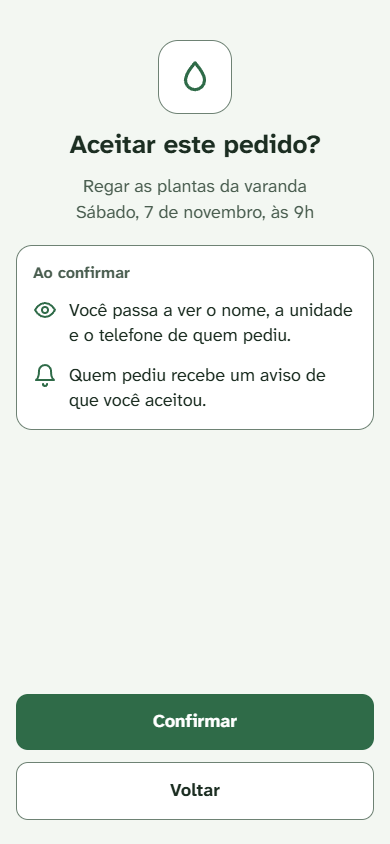
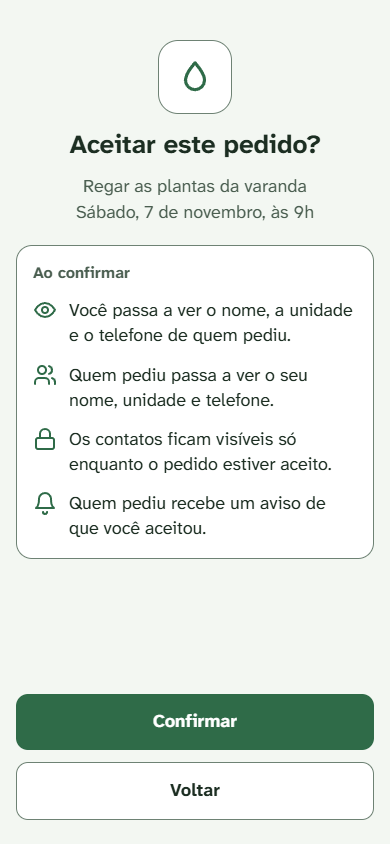
docs(casos-de-uso): adiciona DC-09 a DC-12 sobre contato e conclusão do pedido (#41)

diff --git a/docs/casos-de-uso/ciclo-da-solicitacao.md b/docs/casos-de-uso/ciclo-da-solicitacao.md
@@ -80,6 +80,10 @@ Leitura: a seta com triângulo (Solicitante → Morador e Apoiador → Morador) 
 | DC-06 | O **admin da comunidade também cria e aceita solicitações**, como qualquer morador, desde que o vínculo dele esteja ativo. | O admin também mora na comunidade. O papel fica no Vínculo (MD-02), e proibir exigiria uma regra a mais. | O admin só administra e não pede nem oferece ajuda. |
 | DC-07 | Existe uma sétima categoria, **Outra ajuda**, para pedidos que não cabem nas outras seis. Quem pede explica o pedido na descrição. O aviso segue a DC-01: é avisado quem marcou no perfil que oferece Outra ajuda e está disponível no horário (ADR-34). | Sem ela, o pedido diferente não tem lugar, e a pessoa desiste ou escolhe uma categoria errada, que avisa as pessoas erradas. | (a) Manter seis categorias: a pessoa fica sem saída. (b) Categoria em texto livre: não casa com o perfil, e ninguém seria avisado. (c) O admin cria categorias: telas e regras que nenhum RF prevê. |
 | DC-08 | O **nome** de quem pediu segue a regra da unidade e do telefone: só o apoiador vê, e só depois do aceite. Nunca aparece na lista, no aviso nem no detalhe antes do aceite (ADR-34). | Um pedido como "vou viajar no fim de semana", junto com o nome, mostra a toda a comunidade quem vai deixar o apartamento vazio. Reforça a P-04 sem mudá-la. | (a) Nome sempre visível: expõe quem pede, como no exemplo da viagem. (b) Só o primeiro nome na lista: ainda identifica a pessoa numa comunidade pequena. |
+| DC-09 | Depois do aceite, quem pediu vê o **nome, a unidade e o telefone do apoiador**. Só o solicitante daquela solicitação vê esses dados, e nunca em listagens (RC-12). | Combinar a ajuda (entregar, buscar uma chave, avisar de um atraso) exige contato nos dois sentidos. Sem isso, só o apoiador consegue ligar. Quem aceita é avisado antes de confirmar (RF-US-01). | (a) Só avisar que alguém aceitou, sem dados: o solicitante fica sem saída se o apoiador sumir. (b) Só o nome: não dá para combinar a ajuda. |
+| DC-10 | O contato dos dois lados (nome, unidade e telefone) só é mostrado **enquanto a solicitação está Aceita**. Quando ela volta a Aberta (desistência), é Cancelada ou é Concluída, o sistema deixa de mostrar o contato aos dois. O histórico mostra título, categoria, data e status, sem contato. | Uma regra só, igual para os dois lados. Combina com o UC-03, passo 6, e com dados mínimos (RNF04). É mais rígida que a P-04 sem mudá-la. | (a) Contato visível para sempre: dado pessoal guardado sem uso. (b) Contato some na desistência e no cancelamento, mas fica depois de Concluída: duas regras para o mesmo dado. |
+| DC-11 | Pelo webapp, o solicitante pode concluir **a qualquer momento enquanto a solicitação está Aceita**, também antes do horário marcado. Pelo bot, só depois do horário, pela pergunta da DC-04. | A ajuda pode acontecer mais cedo. O UC-05 já dizia "depois da ajuda", não "depois do horário". Evita uma checagem de horário a mais. | Só depois do horário: trava quem já foi ajudado. |
+| DC-12 | No webapp, concluir **pede confirmação**, como cancelar. No bot, não: a pergunta "A ajuda foi feita?" (DC-04) já é a confirmação. | Concluída é final, como Cancelada. Um toque por engano encerraria o pedido e avisaria o apoiador. | (a) Confirmação também no bot: repete a mesma pergunta. (b) Sem confirmação: o engano não tem volta. |
 
 ## 5. Rótulos de exibição
 
@@ -147,16 +151,16 @@ Rótulos são textos que o webapp mostra conforme o status e a data. **Não são
 1. O morador abre a lista de solicitações abertas da comunidade. A lista não mostra nome, unidade nem telefone de ninguém (RC-10, DC-08).
 2. Ele escolhe uma solicitação e vê os detalhes, ainda sem nome, unidade nem telefone de quem pediu (DC-08).
 3. Ele toca em **Aceitar**.
-4. O sistema pede uma confirmação e avisa que, ao confirmar, ele passa a ver o nome, a unidade e o telefone do solicitante (RF-US-01).
+4. O sistema pede uma confirmação e avisa que, ao confirmar, ele passa a ver o nome, a unidade e o telefone do solicitante, e o solicitante passa a ver os dele, enquanto a solicitação estiver Aceita (RF-US-01, DC-09, DC-10).
 5. Ele confirma.
 6. O sistema muda a solicitação para **Aceita**, com esse morador como apoiador, e registra uma Transição da solicitação (de Aberta para Aceita, autor, origem webapp, data).
 7. O sistema avisa o solicitante.
-8. O sistema passa a mostrar ao apoiador o nome, a unidade e o telefone do solicitante (P-04, DC-08).
+8. O sistema passa a mostrar ao apoiador o nome, a unidade e o telefone do solicitante (P-04, DC-08), e ao solicitante os do apoiador (DC-09), enquanto a solicitação estiver Aceita (DC-10).
 
 **Fluxos alternativos:**
 - **A1 — Pelo bot.** O morador recebeu o aviso do UC-01 (passo 6) e toca em **Aceitar** na mensagem. O bot pede a mesma confirmação na própria mensagem e ele confirma (passos 4 e 5). O sistema executa os passos 6 a 8, com origem bot, e responde no chat com o nome, a unidade e o telefone do solicitante.
 - **A2 — Filtro por categoria.** No passo 1, o morador filtra a lista por categoria (RF06).
-- **A3 — Desiste na confirmação.** No passo 5, o morador não confirma: no webapp, toca em Voltar ou sai da tela; no bot, toca em Voltar ou não toca em Confirmar. Nada muda, e o nome, a unidade e o telefone do solicitante continuam ocultos (RF-US-02).
+- **A3 — Desiste na confirmação.** No passo 5, o morador não confirma: no webapp, toca em Voltar ou sai da tela; no bot, toca em Voltar ou não toca em Confirmar. Nada muda: o nome, a unidade e o telefone do solicitante continuam ocultos, e os do morador não vão para o solicitante (RF-US-02).
 
 **Exceções:**
 - **E1 — Outro morador aceitou antes**, mesmo que no mesmo instante e por outro canal (webapp ou bot). Só a primeira aceitação vale. O sistema recusa a segunda, informa que a solicitação já foi aceita, e nada muda (P-01, RF09).
@@ -168,11 +172,11 @@ Rótulos são textos que o webapp mostra conforme o status e a data. **Não são
 - As exceções E1 a E5 e, no fluxo A1, as exceções EB-1 e EB-2 são conferidas quando o morador confirma (passo 5), porque a situação pode mudar entre o toque em Aceitar e a confirmação.
 
 **Pós-condições:**
-- Sucesso: a solicitação está Aceita, tem exatamente um apoiador, a Transição foi registrada, o solicitante foi avisado e só o apoiador vê o nome, a unidade e o telefone do solicitante.
+- Sucesso: a solicitação está Aceita, tem exatamente um apoiador, a Transição foi registrada, o solicitante foi avisado, só o apoiador vê o nome, a unidade e o telefone do solicitante, e só o solicitante vê os do apoiador (DC-09).
 - Exceção: nada mudou.
-- Desistência na confirmação (A3): nada mudou, e o nome, a unidade e o telefone do solicitante não foram revelados.
+- Desistência na confirmação (A3): nada mudou, e o nome, a unidade e o telefone de nenhum dos dois foram revelados.
 
-**Rastreabilidade (acréscimo do projeto):** RF06, RF08, RF09, RNF01 (RNF-US-02; RF-US-01 e RF-US-02 em `docs/specs/usabilidade.md`), RNF05 · RC-01, RC-02, RC-09, RC-10 · P-01, P-02, P-04, P-05, P-07 · DC-03, DC-06, DC-08.
+**Rastreabilidade (acréscimo do projeto):** RF06, RF08, RF09, RNF01 (RNF-US-02; RF-US-01 e RF-US-02 em `docs/specs/usabilidade.md`), RNF05 · RC-01, RC-02, RC-09, RC-10, RC-12 · P-01, P-02, P-04, P-05, P-07 · DC-03, DC-06, DC-08, DC-09, DC-10.
 
 ---
 
@@ -192,7 +196,7 @@ Rótulos são textos que o webapp mostra conforme o status e a data. **Não são
 3. O sistema volta a solicitação para **Aberta**, sem apoiador (RC-03), e registra uma Transição da solicitação (de Aceita para Aberta, autor, origem webapp, data).
 4. O sistema avisa o solicitante.
 5. O sistema avisa de novo os moradores escolhidos pela DC-01, sem avisar quem desistiu (DC-02).
-6. O morador que desistiu deixa de ver o nome, a unidade e o telefone do solicitante (P-04, DC-08).
+6. O morador que desistiu deixa de ver o nome, a unidade e o telefone do solicitante (P-04, DC-08), e o solicitante deixa de ver os dele (DC-10).
 
 **Fluxos alternativos:**
 - **A1 — Pelo bot.** O apoiador toca em **Desistir** numa mensagem do bot. O sistema executa os passos 3 a 6, com origem bot.
@@ -204,10 +208,10 @@ Rótulos são textos que o webapp mostra conforme o status e a data. **Não são
 - **EB-1 e EB-2** (seção 1), no fluxo A1.
 
 **Pós-condições:**
-- Sucesso: a solicitação está Aberta, sem apoiador; a Transição foi registrada; o solicitante foi avisado; o ex-apoiador não vê mais o nome, a unidade e o telefone.
+- Sucesso: a solicitação está Aberta, sem apoiador; a Transição foi registrada; o solicitante foi avisado; o ex-apoiador não vê mais o nome, a unidade e o telefone do solicitante, e o solicitante não vê mais os do ex-apoiador (DC-10).
 - Exceção: nada mudou.
 
-**Rastreabilidade (acréscimo do projeto):** RF10 · RC-03, RC-09, RC-10 · P-02, P-04, P-05 · DC-02, DC-03, DC-05, DC-08.
+**Rastreabilidade (acréscimo do projeto):** RF10 · RC-03, RC-09, RC-10, RC-12 · P-02, P-04, P-05 · DC-02, DC-03, DC-05, DC-08, DC-10.
 
 ---
 
@@ -240,10 +244,10 @@ Rótulos são textos que o webapp mostra conforme o status e a data. **Não são
 - **EB-1 e EB-2** (seção 1), nos fluxos A1 e A2.
 
 **Pós-condições:**
-- Sucesso: a solicitação está Cancelada e não muda mais; a Transição foi registrada; o apoiador, se havia, foi avisado.
+- Sucesso: a solicitação está Cancelada e não muda mais; a Transição foi registrada; o apoiador, se havia, foi avisado; nenhum dos dois vê mais o contato do outro (DC-10).
 - Exceção: nada mudou.
 
-**Rastreabilidade (acréscimo do projeto):** RF10 · RC-09 · P-02, P-05 · DC-03, DC-05.
+**Rastreabilidade (acréscimo do projeto):** RF10 · RC-09, RC-10, RC-12 · P-02, P-04, P-05 · DC-03, DC-05, DC-10.
 
 ---
 
@@ -260,14 +264,14 @@ Rótulos são textos que o webapp mostra conforme o status e a data. **Não são
 
 **Fluxo principal (webapp):**
 1. Depois da ajuda, o solicitante abre a solicitação.
-2. Ele toca em **Confirmar que foi feita**.
+2. Ele toca em **Concluir** e confirma (DC-12). Isso vale a qualquer momento enquanto a solicitação está Aceita, também antes do horário (DC-11).
 3. O sistema muda a solicitação para **Concluída**, que é um status final, e registra uma Transição da solicitação (de Aceita para Concluída, autor, origem webapp, data).
 4. O sistema avisa o apoiador.
 
 Não existe avaliação entre moradores depois da conclusão (D-01, RC-11).
 
 **Fluxos alternativos:**
-- **A1 — Pergunta do bot (DC-04).** O horário passou e a solicitação continua Aceita. O bot pergunta ao solicitante uma vez, por exemplo: "A ajuda foi feita?" ⚠, com o botão **Sim, foi feita**. Se ele tocar, o sistema executa os passos 3 e 4, com origem bot.
+- **A1 — Pergunta do bot (DC-04).** O horário passou e a solicitação continua Aceita. O bot pergunta ao solicitante uma vez, por exemplo: "A ajuda foi feita?" ⚠, com o botão **Sim, foi feita**. Se ele tocar, o sistema executa os passos 3 e 4, com origem bot. A pergunta já é a confirmação: o bot não pede outra (DC-12).
 - **A2 — Rótulos no webapp (DC-04).** Depois do horário, o solicitante vê "Aguardando sua confirmação" e o apoiador vê "Aguardando confirmação do solicitante". O solicitante pode concluir pelo fluxo principal.
 - **A3 — O solicitante não responde.** A solicitação continua Aceita. O bot não pergunta de novo, e o sistema não conclui sozinho (DC-04).
 
@@ -275,13 +279,15 @@ Não existe avaliação entre moradores depois da conclusão (D-01, RC-11).
 - **E1 — A solicitação está Aberta** (ninguém aceitou). Não há ajuda a confirmar. O sistema recusa (P-02).
 - **E2 — A solicitação já terminou** (Concluída ou Cancelada), por exemplo quando o botão do bot é tocado depois de concluir pelo webapp. O sistema recusa e informa o status final (P-02).
 - **E3 — O morador não é o solicitante** (por exemplo, o apoiador tenta concluir). O sistema recusa (RF11).
+- **E4 — O apoiador mudou** desde que o solicitante abriu a solicitação ou recebeu a pergunta do bot (o apoiador desistiu e outro morador aceitou). O sistema recusa, informa que o apoiador mudou, e nada muda.
 - **EB-1 e EB-2** (seção 1), no fluxo A1.
+- No webapp, as exceções E1 a E4 são conferidas quando o solicitante confirma (passo 2), porque a situação pode mudar entre os dois toques (por exemplo, o apoiador desiste e outro morador aceita).
 
 **Pós-condições:**
-- Sucesso: a solicitação está Concluída e não muda mais; a Transição foi registrada; o apoiador foi avisado.
+- Sucesso: a solicitação está Concluída e não muda mais; a Transição foi registrada; o apoiador foi avisado; nenhum dos dois vê mais o contato do outro (DC-10).
 - Exceção: nada mudou.
 
-**Rastreabilidade (acréscimo do projeto):** RF11, RF12 · RC-09, RC-11 · P-02, P-05 · D-01 · DC-04.
+**Rastreabilidade (acréscimo do projeto):** RF11, RF12 · RC-09, RC-10, RC-11, RC-12 · P-02, P-04, P-05 · D-01 · DC-04, DC-10, DC-11, DC-12.
 
 ## 7. Pontos em aberto ⚠
 
@@ -291,8 +297,7 @@ Não mudam os fluxos acima, mas precisam de resposta na spec ou nos mockups.
 - Como o sistema sabe que já perguntou (DC-04) ou já avisou (DC-05), para fazer isso uma vez só. Talvez exija um dado novo na Solicitação, o que mexeria no modelo.
 - Quem não usa Telegram: a pergunta da DC-04 e o aviso da DC-05 também vão por e-mail, com um link para o webapp? (RF24)
 - Vínculo suspenso ou removido depois de criar ou aceitar: a pessoa ainda pode cancelar, desistir ou concluir? (efeitos da suspensão, RF17)
-- Depois que a solicitação é Cancelada ou Concluída, o ex-apoiador continua vendo o nome, a unidade e o telefone do solicitante? (P-04, DC-08)
-- O que o solicitante vê do apoiador quando é avisado da aceitação (nome? contato?).
-- O solicitante pode concluir antes do horário marcado, se a ajuda já aconteceu?
+- Mensagens do bot já entregues continuam no histórico do Telegram depois que a solicitação termina: a resposta do aceite ao apoiador, com o nome, a unidade e o telefone do solicitante (UC-02 A1), e o aviso do aceite ao solicitante (UC-02 passo 7), se ele levar o contato do apoiador. A DC-10 vale para o que o sistema mostra. Decidir no catálogo de mensagens do bot se o contato vai no chat e se o bot apaga a mensagem ⚠ (conferir na documentação do Telegram o que um bot pode apagar).
+- Na spec: concluir precisa ser condicionado ao status e ao apoiador ao mesmo tempo (UC-05 E4), do mesmo jeito que o aceite é condicionado ao status (P-01).
 - Texto da resposta do bot na EB-2.
 - Na spec: onde fica a recusa por horário vencido. Proposta: como condição do caso de uso Aceitar, fora da tabela de transições da P-02.

diff --git a/docs/specs/usabilidade.md b/docs/specs/usabilidade.md
@@ -1,7 +1,7 @@
 # Spec: usabilidade e acessibilidade (RNF01 e RNF02)
 
 - Origem: decomposição do RNF01 ("criar/aceitar em até 3 toques") e do RNF02 ("leitor de tela, aumento de fonte, contraste") em critérios verificáveis, antes dos mockups (aula 3, A3 s.17 e s.25). Issue #32.
-- Decisões relacionadas: D1 a D7 da Issue #32. Casos de uso: UC-01 e UC-02 (`docs/casos-de-uso/ciclo-da-solicitacao.md`). Constituição: P-01, P-02, P-04 e P-05.
+- Decisões relacionadas: D1 a D7 da Issue #32. Casos de uso: UC-01 e UC-02 (`docs/casos-de-uso/ciclo-da-solicitacao.md`), com DC-09 e DC-10 (Issue #40). Constituição: P-01, P-02, P-04 e P-05.
 - Escopo: todas as telas do webapp e todas as mensagens do bot.
 - Fora do escopo: conformidade completa com a WCAG 2.2 nível AA; a acessibilidade do próprio aplicativo do Telegram; testes automáticos de acessibilidade; a identidade visual (paleta, fonte e ícones), que vem em outra Issue e precisa cumprir o RNF-US-03 e o RNF-US-04.
 
@@ -20,8 +20,8 @@
 
 | ID | Padrão EARS | Cláusula |
 |---|---|---|
-| RF-US-01 | Event-driven | WHEN um morador toca em Aceitar numa solicitação, no webapp ou no bot, THE SYSTEM SHALL pedir uma confirmação antes de aceitar AND dizer que, ao confirmar, ele passa a ver o nome, a unidade e o telefone do solicitante. |
-| RF-US-02 | Unwanted behavior | IF o morador não confirma (no webapp, toca em Voltar ou sai da tela; no bot, toca em Voltar ou não toca em Confirmar), THEN THE SYSTEM SHALL manter a solicitação como estava AND não revelar o nome, a unidade nem o telefone do solicitante. |
+| RF-US-01 | Event-driven | WHEN um morador toca em Aceitar numa solicitação, no webapp ou no bot, THE SYSTEM SHALL pedir uma confirmação antes de aceitar AND dizer que, ao confirmar, ele passa a ver o nome, a unidade e o telefone do solicitante AND que o solicitante passa a ver o nome, a unidade e o telefone dele. |
+| RF-US-02 | Unwanted behavior | IF o morador não confirma (no webapp, toca em Voltar ou sai da tela; no bot, toca em Voltar ou não toca em Confirmar), THEN THE SYSTEM SHALL manter a solicitação como estava AND não revelar o nome, a unidade nem o telefone do solicitante ao morador AND não revelar os do morador ao solicitante. |
 | RNF-US-01 | Ubiquitous | THE SYSTEM SHALL permitir que um morador com vínculo ativo publique uma solicitação no webapp com no máximo 3 toques, contados como em DEF-US-01 a DEF-US-04. |
 | RNF-US-02 | Ubiquitous | THE SYSTEM SHALL permitir que um morador com vínculo ativo aceite uma solicitação, no webapp ou no bot, com no máximo 3 toques, contados como em DEF-US-01 a DEF-US-04, incluindo o toque de confirmação do RF-US-01. |
 | RNF-US-03 | Ubiquitous | THE SYSTEM SHALL exibir todo texto do webapp com contraste de pelo menos 4,5:1 contra o fundo, ou de pelo menos 3:1 para texto grande (DEF-US-05), no tema claro e no tema escuro, exceto texto de elemento desabilitado, texto só decorativo e texto que faz parte de um logotipo. |
@@ -45,7 +45,7 @@
 
 | Cláusula | Onde se confere | Como |
 |---|---|---|
-| RF-US-01, RF-US-02 | Mockup e, depois, teste da tela e do bot | Fluxo de aceitar mostra a confirmação com o aviso; o caminho Voltar não muda nada |
+| RF-US-01, RF-US-02 | Mockup e, depois, teste da tela e do bot | Fluxo de aceitar mostra a confirmação com o aviso nos dois sentidos (quem aceita passa a ver o contato de quem pediu, e quem pediu passa a ver o de quem aceita); o caminho Voltar não muda nada |
 | RNF-US-01, RNF-US-02 | Mockup | Contar os toques em cada fluxo seguindo DEF-US-01 a DEF-US-04 e anotar o número no próprio mockup |
 | RNF-US-03, RNF-US-04 | Mockup e tela | Contraste calculado para cada par de cores da paleta, nos dois temas, numa tabela da identidade visual |
 | RNF-US-05 | Tela | Zoom do navegador em 200% e percorrer cada tela |
@@ -59,7 +59,7 @@
 ## Observações
 
 - **Consequência para os mockups (RNF-US-02 com o RF-US-01):** com a confirmação, aceitar no webapp já gasta 3 toques a partir da lista (escolher, Aceitar, Confirmar). Então a tela inicial precisa já mostrar a lista de solicitações abertas, ou o botão Aceitar precisa estar no próprio item da lista. Se abrir a lista custar um toque, o RNF-US-02 falha. No bot, aceitar gasta 2 toques (Aceitar e Confirmar).
-- **Relação com a constituição:** a confirmação não é um status e não registra Transição da solicitação; a máquina de estados continua a mesma (P-02). A aceitação só acontece no toque em Confirmar, e é nesse momento que vale a regra de aceitação única (P-01) e que o bot confere se o chat é de um usuário identificado com vínculo ativo (P-05). A confirmação existe para proteger o nome, a unidade e o telefone do solicitante de uma aceitação por engano (P-04 e, para o nome, DC-08).
+- **Relação com a constituição:** a confirmação não é um status e não registra Transição da solicitação; a máquina de estados continua a mesma (P-02). A aceitação só acontece no toque em Confirmar, e é nesse momento que vale a regra de aceitação única (P-01) e que o bot confere se o chat é de um usuário identificado com vínculo ativo (P-05). A confirmação existe para proteger o nome, a unidade e o telefone do solicitante de uma aceitação por engano (P-04 e, para o nome, DC-08). Ela também avisa o apoiador de que o nome, a unidade e o telefone dele vão para o solicitante (DC-09).
 - Os critérios RNF-US-03 a RNF-US-06 e RNF-US-08 a RNF-US-11 são um recorte do nível AA da WCAG 2.2, a versão em vigor do W3C. O RNF-US-07 (área de toque de 44 × 44 px) é do nível AAA (critério 2.5.5); a escolha do AAA nesse ponto vem do público, que inclui pessoas idosas. Este arquivo não declara conformidade completa com a WCAG.
 - Origem de cada critério: RNF-US-01 e RNF-US-02 vêm do RNF01; RNF-US-03 a RNF-US-12 vêm do RNF02. Critérios da WCAG 2.2: 1.4.3 (RNF-US-03), 1.4.11 (RNF-US-04), 1.4.4 (RNF-US-05), 1.4.10 (RNF-US-06), 2.5.5 (RNF-US-07), 1.3.1 e 3.3.2 (RNF-US-08), 4.1.2 (RNF-US-09), 1.4.1, 3.3.1 e 3.3.3 (RNF-US-10), 2.1.1, 2.4.3 e 2.4.7 (RNF-US-11).
 - O RF-US-01 e o RF-US-02 nasceram da decomposição do RNF01 (decisão D3). Por descreverem comportamento, ficam como RF (A3 s.20), não como RNF.

diff --git a/docs/mockups/criar-e-aceitar.md b/docs/mockups/criar-e-aceitar.md
@@ -1,7 +1,7 @@
 # Mockups: criar e aceitar solicitação
 
 - Origem: Issue #36. Telas do UC-01 (criar) e do UC-02 (aceitar), mais a tela inicial com o seletor de comunidade.
-- Ferramenta: tipo Design do Claude.ai. Esta pasta guarda as imagens da versão aprovada em 05/11/2026.
+- Ferramenta: tipo Design do Claude.ai. Esta pasta guarda as imagens da versão aprovada em 05/11/2026. As imagens 06 e 09 foram atualizadas em 06/11/2026, na Issue #40 (DC-09 e DC-10).
 - Fontes: `docs/casos-de-uso/ciclo-da-solicitacao.md`, `docs/specs/usabilidade.md`, `docs/design/identidade-visual.md` e `docs/adr/ADR-34-categoria-outra-e-nome.md`.
 - Tamanho das telas: 390 px de largura. A largura de 320 px (RNF-US-06) é conferida na tela real.
 - Todo nome entre colchetes, como [Nome], marca onde entra o nome real. A comunidade e os contatos das telas são fictícios.
@@ -15,7 +15,7 @@
 | 3 | Pedir ajuda com erros | UC-01, E1 e E3 | RNF-US-10 |
 | 4 | Pedido publicado | UC-01, passo 7 | DC-01 (quem recebe o aviso) |
 | 5 | Detalhe do pedido | UC-02, passos 2 e 3 | DC-08 (sem nome, unidade nem telefone antes do aceite) |
-| 6 | Confirmar o aceite | UC-02, passos 4 e 5; A3 (Voltar) | RF-US-01, RF-US-02 |
+| 6 | Confirmar o aceite | UC-02, passos 4 e 5; A3 (Voltar) | RF-US-01, RF-US-02; DC-09 e DC-10 (o contato do apoiador vai para quem pediu, enquanto o pedido estiver aceito) |
 | 7 | Pedido aceito | UC-02, passos 6 a 8 | P-04 e DC-08 (nome, unidade e telefone para o apoiador) |
 | 8 | Este pedido já foi aceito | UC-02, E1 | P-01 |
 | 9 | Tema escuro | As telas 1 a 8 | RNF-US-03, RNF-US-04 (V2 da identidade visual) |
@@ -36,7 +36,7 @@
 ![Detalhe do pedido com o botão Aceitar e o aviso de que o contato aparece depois do aceite](criar-e-aceitar/05-pedido.png)
 
 ### 6. Confirmar o aceite
-![Pergunta Aceitar este pedido, com os botões Confirmar e Voltar](criar-e-aceitar/06-confirmar.png)
+![Pergunta Aceitar este pedido, com o aviso de que os dois passam a ver o contato um do outro enquanto o pedido estiver aceito, e os botões Confirmar e Voltar](criar-e-aceitar/06-confirmar.png)
 
 ### 7. Pedido aceito
 ![Pedido aceito, com o nome, a unidade e o botão para ligar para quem pediu](criar-e-aceitar/07-aceito.png)
@@ -86,7 +86,7 @@ Os casos de uso deixaram os textos para os mockups. Estes são os textos aprovad
 | Tela 3, UC-01 E3 | "Essa data e esse horário já passaram. Escolha um momento a partir de agora." |
 | Tela 4 | "Pedido publicado" · "Ele já aparece para os vizinhos. Quem oferece essa ajuda e está disponível no horário recebe um aviso." |
 | Tela 5, aviso | "O nome, a unidade e o telefone de quem pediu aparecem depois que você aceitar." |
-| Tela 6 | "Aceitar este pedido?" · "Ao confirmar" · "Você passa a ver o nome, a unidade e o telefone de quem pediu." · "Quem pediu recebe um aviso de que você aceitou." |
+| Tela 6 | "Aceitar este pedido?" · "Ao confirmar" · "Você passa a ver o nome, a unidade e o telefone de quem pediu." · "Quem pediu passa a ver o seu nome, unidade e telefone." · "Os contatos ficam visíveis só enquanto o pedido estiver aceito." · "Quem pediu recebe um aviso de que você aceitou." |
 | Tela 7 | "Você aceitou o pedido" · "Quem pediu já foi avisado." |
 | Tela 8, UC-02 E1 | "Este pedido já foi aceito" · "Outro vizinho aceitou antes de você. Nada mudou para você." |
 
@@ -119,6 +119,7 @@ A E2 do UC-01 (categoria fora das sete) não tem texto de tela: no webapp, a cat
 ## Pendências
 
 - Telas do UC-03 a UC-05 (desistir, cancelar, concluir) e dos rótulos de exibição: outra Issue.
+- Tela do solicitante com o nome, a unidade e o telefone do apoiador depois do aceite (DC-09, DC-10).
 - Telas de Meus pedidos e de Perfil (inclui marcar "Outra ajuda" entre as ajudas oferecidas).
 - Catálogo de mensagens do bot: avisos, confirmação no bot (RF-US-01 e RNF-US-02 no bot) e RNF-US-12.
 - Conferir na tela real os RNF-US-05, RNF-US-06, RNF-US-09 e RNF-US-11, e o foco do teclado (RU-01 da identidade visual).

diff --git a/docs/modelo/dominio-conceitual.md b/docs/modelo/dominio-conceitual.md
@@ -3,7 +3,7 @@
 | Campo | Valor |
 |---|---|
 | Nível | **Conceitual** (aula 4): só conceitos e relacionamentos. Sem identificadores técnicos, tipos de dado ou nomes de tabela. Isso fica no nível físico (as migrations). |
-| Data | 05/11/2026 |
+| Data | 05/11/2026 (RC-10 e RC-12 atualizadas em 06/11/2026, na Issue #40) |
 | Situação | Primeira versão. Base para os casos de uso, as specs dos RFs e as próximas migrations. |
 | Fontes | `docs/constitution.md` (P-01 a P-08) · requisitos RF01 a RF24 e RNF01 a RNF08 (RF24, aviso por e-mail, entrou junto com este modelo) · decisões ADR-08 a ADR-14, ADR-20 |
 | Fora deste modelo | Tabelas técnicas de infraestrutura (a do cron anti-pausa e a da idempotência do webhook): não são conceitos do domínio. |
@@ -111,8 +111,9 @@ Regras que o diagrama sozinho não mostra. Cada uma vai virar cláusula (RB) nas
 | RC-07 | Toda denúncia tem **exatamente um** alvo: um usuário **ou** uma solicitação. | RF16 |
 | RC-08 | Solicitação do tipo Olhar Amigo exige Conta do Telegram do solicitante e do apoiador. | MD-04, ADR-20 |
 | RC-09 | Quem tem Conta do Telegram recebe os avisos pelo Telegram. Quem não tem e aceita avisos por e-mail recebe por e-mail. Quem não tem nenhum dos dois não recebe aviso e acompanha pelo webapp. | MD-04, RF07, RF24 |
-| RC-10 | Nome, unidade e telefone do solicitante só são visíveis ao apoiador que aceitou e nunca aparecem em listagens nem em avisos. | P-04; nome: DC-08 (ADR-34) |
+| RC-10 | Nome, unidade e telefone do solicitante só são visíveis ao apoiador que aceitou, enquanto a solicitação está Aceita, e nunca aparecem em listagens nem em avisos. | P-04; nome: DC-08 (ADR-34); prazo: DC-10 |
 | RC-11 | Não existe avaliação entre moradores. O único registro sobre a conduta de alguém é a denúncia. | D-01, ADR-13 |
+| RC-12 | Nome, unidade e telefone do apoiador só são visíveis ao solicitante daquela solicitação, enquanto ela está Aceita, e nunca aparecem em listagens nem em avisos a outros moradores. | DC-09, DC-10 |
 
 ---
 
@@ -221,7 +222,7 @@ classDiagram
   TipoDeAjudaOferecido ..> Categoria
 
   note for Denuncia "RC-07: exatamente um alvo (Usuario ou Solicitacao)"
-  note for Solicitacao "RC-01 a RC-03, RC-08 e RC-10 na seção 6"
+  note for Solicitacao "RC-01 a RC-03, RC-08, RC-10 e RC-12 na seção 6"
 ```
 
 ---
